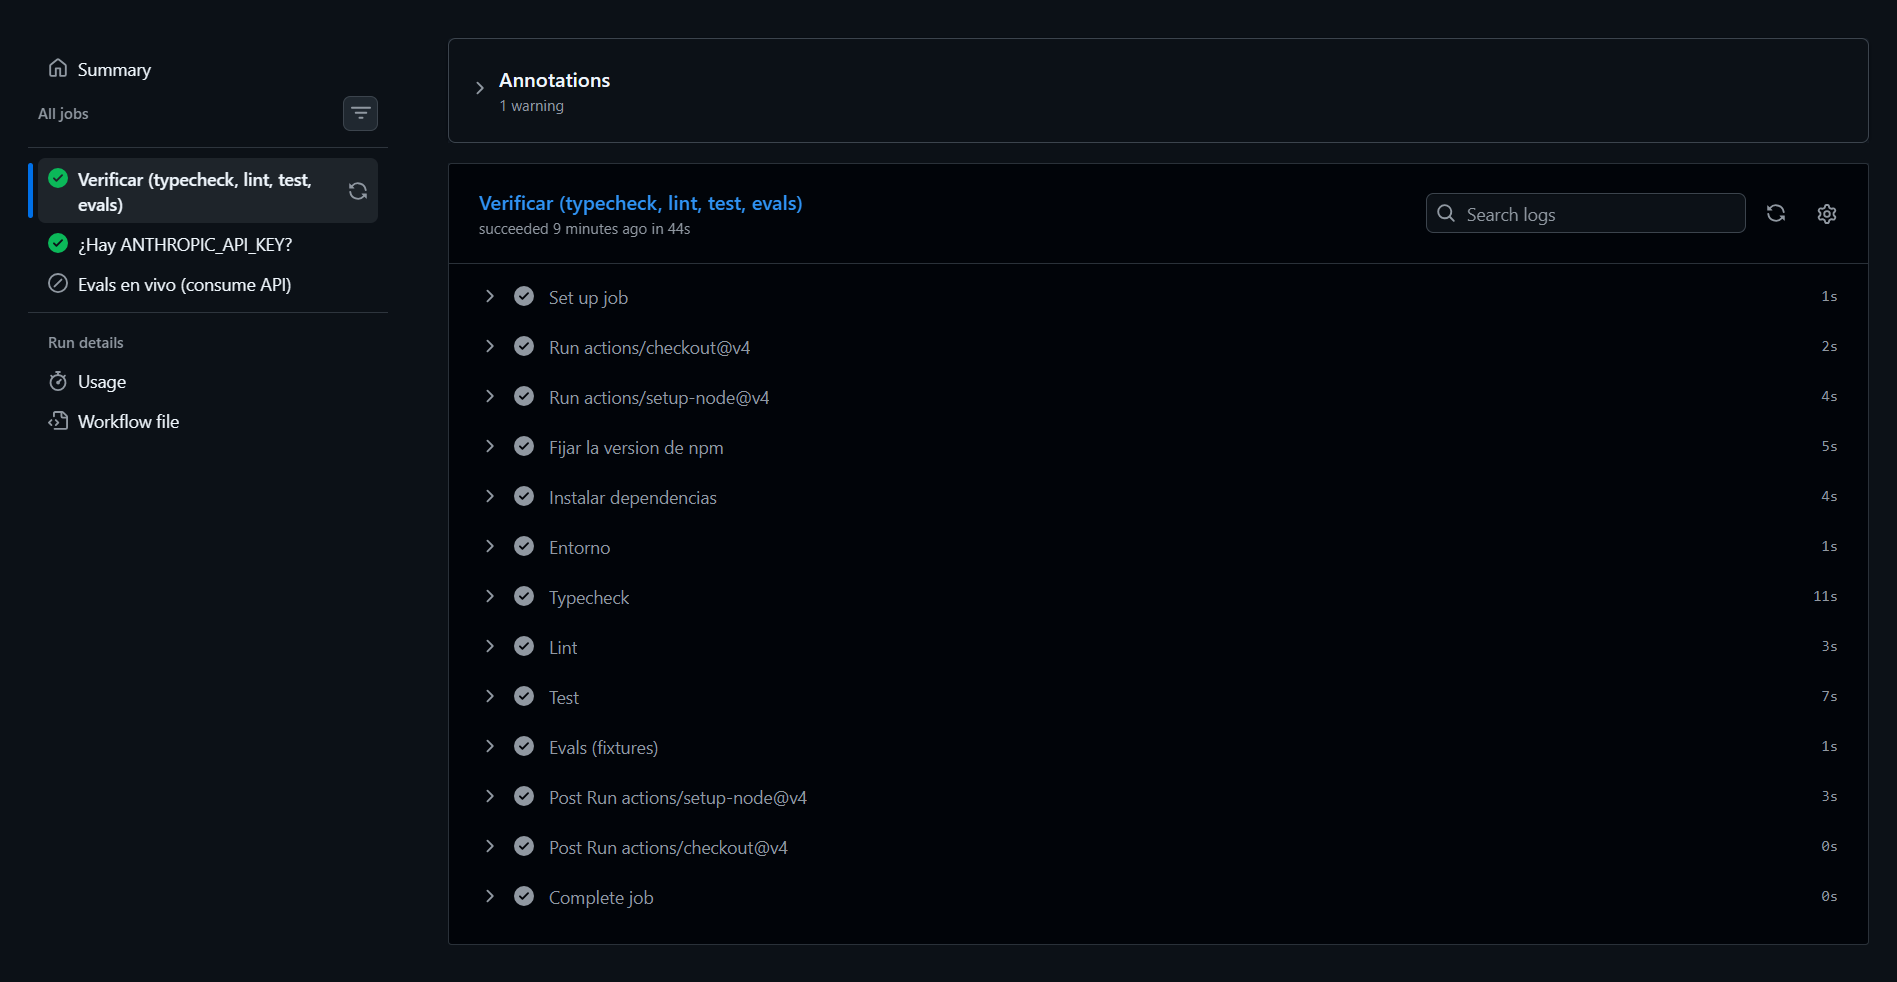
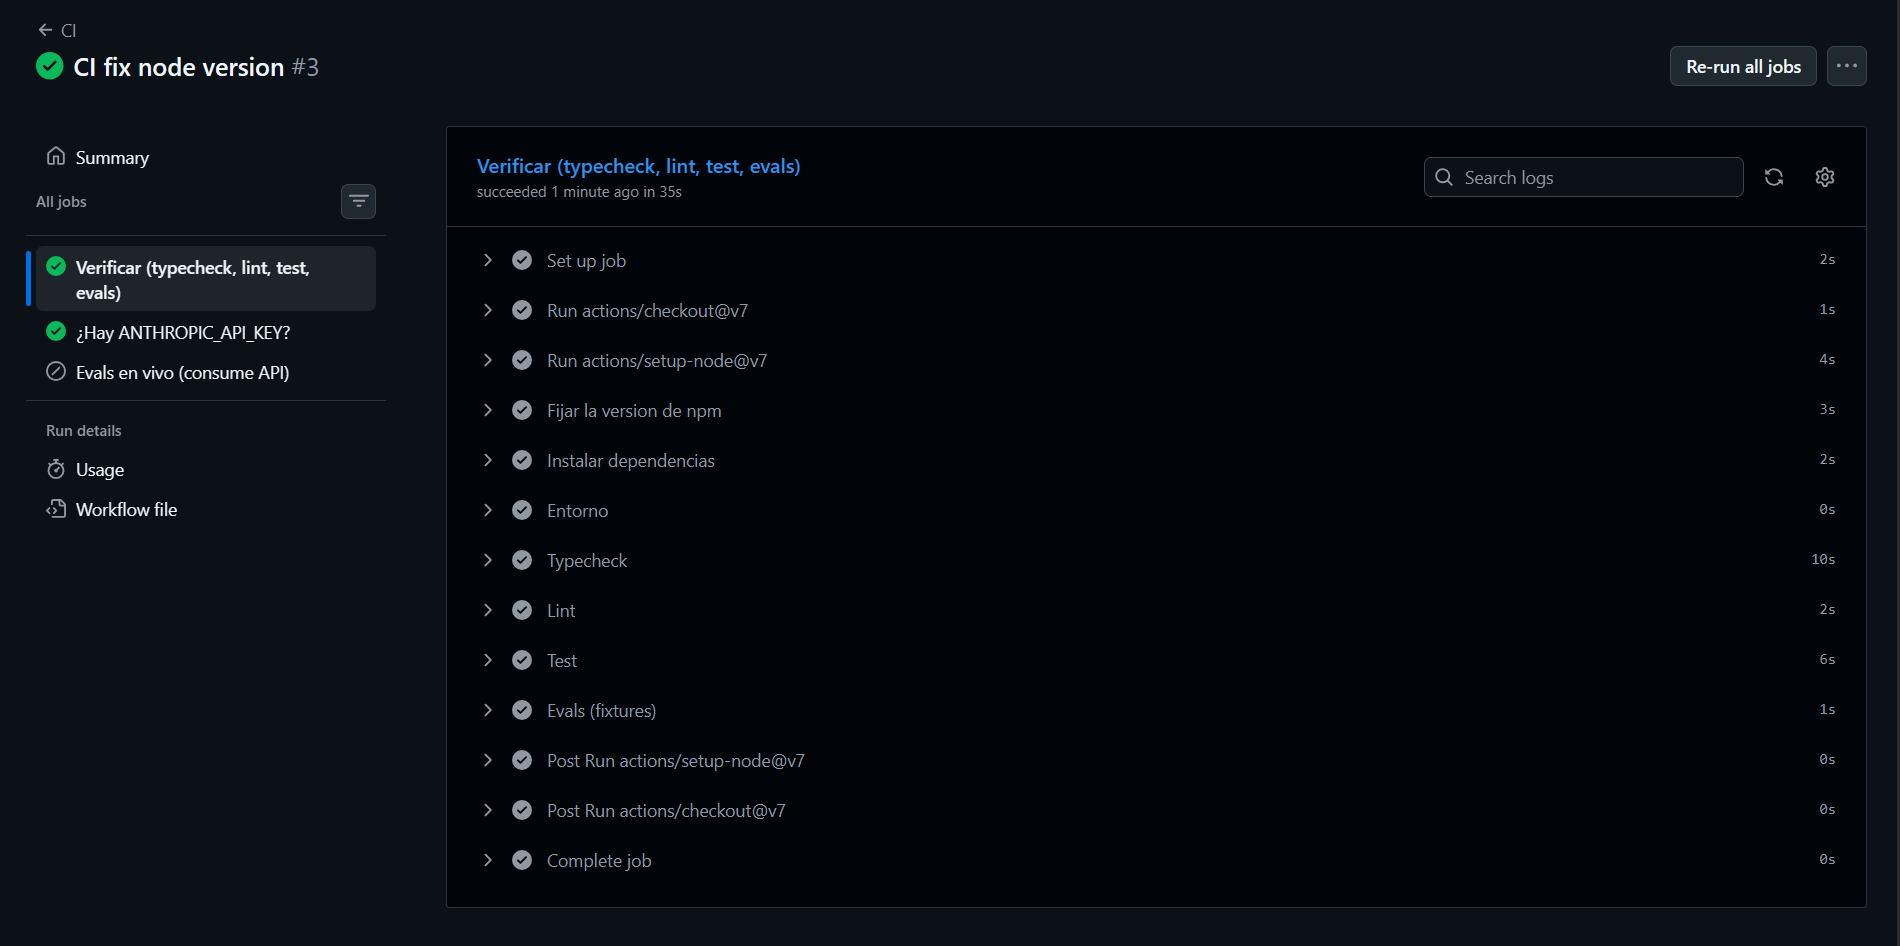
readme

diff --git a/README.md b/README.md
@@ -1,0 +1,353 @@
+# Asistente de producción de pixel art
+
+Convierte una descripción en lenguaje natural en un sprite o tileset real, generado dentro de
+Aseprite a través de un servidor MCP propio. El pixel art es el resultado visible; lo que este
+repositorio demuestra es la ingeniería que hay alrededor del modelo: streaming, salidas
+estructuradas validadas, uso de herramientas, reintentos con fallback entre modelos, caché
+propia, telemetría de coste y latencia, y una suite de evaluación que rompe el build. Cada una de
+esas piezas existe para resolver un problema concreto de llevar un LLM a producción, y abajo se
+explica cuál.
+
+https://github.com/user-attachments/assets/462b58ec-4025-47c0-888f-76507bd3c488
+
+---
+
+## Arquitectura
+
+```mermaid
+flowchart TB
+    subgraph nav ["Navegador"]
+        UI["React 19 + Vite<br/>prompt · streaming · preview"]
+    end
+
+    subgraph srv ["@asistente/server — Express 5"]
+        RT["POST /api/generate<br/>respuesta SSE"]
+        CA{{"¿Está en caché?"}}
+        LLM["Cliente Anthropic<br/>structured output"]
+        RE["Reintentos + fallback<br/>opus-5 → sonnet-5"]
+        ZOD["Validación Zod<br/>SpriteSpec"]
+        TEL[("SQLite<br/>caché + métricas")]
+    end
+
+    subgraph mcp ["@asistente/mcp-aseprite — stdio"]
+        TOOL["Tools MCP"]
+        LUA["Emisor de Lua<br/>una sola transaction"]
+        WS["Servidor WebSocket<br/>127.0.0.1"]
+    end
+
+    ASE["Aseprite 1.3+<br/>extensión connector<br/>(cliente WebSocket)"]
+    OUT["output/<br/>.aseprite · .png · .json"]
+
+    UI -->|prompt| RT
+    RT --> CA
+    CA -->|hit ~50 ms, $0| ZOD
+    CA -->|miss| LLM
+    LLM --> RE
+    RE --> ZOD
+    ZOD -->|spec válido| TOOL
+    ZOD -.->|inválido: reintento con el error| LLM
+    TOOL --> LUA --> WS
+    WS <-->|"id + Lua / resultado"| ASE
+    ASE --> OUT
+    OUT -->|preview| UI
+    RT -.->|coste, tokens, latencia| TEL
+    TEL -->|"GET /api/dashboard"| UI
+```
+
+El modelo nunca toca el disco ni ejecuta nada. Produce un `SpriteSpec` en JSON; el servidor lo
+valida y, sólo si es válido, el MCP lo traduce a Lua. Esa frontera es lo que permite tratar la
+salida del modelo como entrada hostil.
+
+---
+
+## Capacidades
+
+### Streaming por SSE
+
+**El problema:** generar un sprite tarda entre 80 y 170 segundos. Una petición HTTP normal deja
+la interfaz en blanco todo ese tiempo, sin forma de saber si avanza o se colgó.
+
+La respuesta viaja como Server-Sent Events con eventos por etapa, así que la interfaz muestra el
+spec formándose token a token y después el progreso del render.
+
+Dos estados que parecen uno y no lo son: *el cliente colgó* y *la respuesta terminó*. Se escuchan
+por separado, y el cierre del stream ocurre siempre en un `finally` — si se marca cerrado al
+detectar la desconexión, la respuesta se queda colgada para siempre. La desconexión se escucha en
+`res` y no en `req`, porque el `close` de `req` salta en cuanto se termina de leer el cuerpo, que
+en un POST es inmediato.
+
+→ [`packages/server/src/routes/generate.ts`](packages/server/src/routes/generate.ts)
+
+### Salidas estructuradas
+
+**El problema:** pedirle JSON a un modelo y parsearlo con `JSON.parse` falla en producción. Llega
+envuelto en markdown, con un campo de más o con un entero donde se esperaba un enum.
+
+El schema se define una vez con Zod y se deriva a JSON Schema para la API. La validación de
+entrada y el contrato con el modelo no pueden desincronizarse porque son la misma fuente.
+
+Un detalle que no es evidente: Zod v4 emite `minimum`/`maximum` al usar `.int()`, y
+`minLength`/`pattern` con `.min()`/`.regex()`. Esas keywords rompen los structured outputs de la
+API. Por eso los campos que viajan al JSON Schema usan sólo validadores estructurales, y los
+rangos y formatos viven en un `superRefine` que corre del lado del servidor. Lo verifica un test
+dedicado, `assertStructuredOutputCompatible`.
+
+→ [`packages/shared/src/schema/sprite-spec.ts`](packages/shared/src/schema/sprite-spec.ts)
+
+### Uso de herramientas vía MCP
+
+**El problema:** que el modelo "dibuje" significa ejecutar código en una aplicación de escritorio.
+Dejarle generar Lua libre sería ejecución arbitraria de código.
+
+El modelo sólo produce datos. Un servidor MCP por stdio expone herramientas tipadas que traducen
+el `SpriteSpec` a Lua, y todo el lote va en **una sola** `app.transaction`: cientos de llamadas
+sueltas serían cientos de round-trips y otros tantos pasos de deshacer.
+
+Todo nombre de fichero derivado del modelo pasa por `path.basename` con el separador normalizado
+y se verifica confinado al directorio de salida antes de usarse.
+
+→ [`packages/mcp-aseprite/src/tools.ts`](packages/mcp-aseprite/src/tools.ts) ·
+[`lua/emit.ts`](packages/mcp-aseprite/src/lua/emit.ts) ·
+[`output-paths.ts`](packages/mcp-aseprite/src/output-paths.ts)
+
+### El puente hacia Aseprite
+
+**El problema:** la API Lua de Aseprite trae cliente WebSocket, pero no servidor. Y no incluye
+librería JSON.
+
+Node levanta el servidor en `127.0.0.1` y Aseprite se conecta como cliente, así que el lado Node
+arranca primero. El sobre viaja como `"<id>\n<lua>"` y la respuesta se construye a mano con un
+escapador mínimo; quien parsea es Node, que sí tiene `JSON.parse` fiable.
+
+El connector es una **extensión**, no un script: un script lanzado desde `File > Scripts` termina
+en su última línea, sus locales quedan libres para el recolector y el callback deja de dispararse,
+dejando un socket abierto pero sordo.
+
+→ [`packages/mcp-aseprite/src/bridge/ws-server.ts`](packages/mcp-aseprite/src/bridge/ws-server.ts) ·
+[`aseprite/README.md`](aseprite/README.md)
+
+### Reintentos y fallback entre modelos
+
+**El problema:** la API devuelve 429 y 529 bajo carga, y un modelo puede declinar una petición.
+Sin una política explícita, eso es un error en la cara del usuario.
+
+Reintentos con backoff exponencial sobre los códigos recuperables, y fallback de `claude-opus-5`
+a `claude-sonnet-5` cuando el primario no responde. El fallback server-side no lo admiten todos
+los modelos —sólo los que pueden declinar por clasificador—, así que se decide por modelo en
+`supportsServerSideFallback()`.
+
+`SIMULATE_5XX=1` fuerza el fallo del primario para poder demostrarlo sin esperar a una caída real.
+
+→ [`packages/server/src/llm/retry.ts`](packages/server/src/llm/retry.ts) ·
+[`fallback.ts`](packages/server/src/llm/fallback.ts)
+
+![Fallback en la interfaz](docs/media/fallback.png)
+
+### Caché de respuestas
+
+**El problema:** el prompt caching de Anthropic abarata el prefijo de una petición que igualmente
+se ejecuta. No evita la petición.
+
+Esta caché es complementaria, no un sustituto: guarda el `SpriteSpec` completo en SQLite y evita
+la llamada entera. Un acierto convierte una operación de ~102 segundos y ~$0,21 en una de ~50 ms
+y coste cero.
+
+La clave es `sha256` del prompt normalizado más la versión del schema, el modelo y el hash del
+system prompt: cambiar el schema o el prompt invalida las entradas viejas sin purgarlas a mano.
+Los campos se unen con un separador `\u0000`, que no puede aparecer dentro de ninguno — sin él,
+`["ab","c"]` y `["a","bc"]` colisionarían.
+
+→ [`packages/server/src/cache/response-cache.ts`](packages/server/src/cache/response-cache.ts)
+
+![Acierto de caché](docs/media/cache-hit.png)
+
+### Telemetría de coste y latencia
+
+**El problema:** sin medirlo, el coste de un sistema con LLM se descubre en la factura.
+
+Cada petición registra tokens, coste estimado a partir de una tabla de precios versionada,
+latencia por etapa, intentos, si hubo fallback y si fue acierto de caché. El panel agrega por
+ventana y compara con la anterior.
+
+Dos decisiones que cambian lo que se lee: los percentiles de LLM **excluyen** los aciertos de
+caché y los de render excluyen los ceros —meter esos ceros hunde el p50 y finge una mejora que no
+existe—; y las alertas basadas en proporciones exigen un mínimo de evidencia, porque con siete
+peticiones en la ventana un solo fallback da 14 % y cruza cualquier umbral razonable sin describir
+nada real.
+
+→ [`packages/server/src/telemetry/dashboard.ts`](packages/server/src/telemetry/dashboard.ts) ·
+[`shared/src/pricing.ts`](packages/shared/src/pricing.ts)
+
+![Panel de coste, tokens y latencia](docs/media/dashboard.png)
+
+### Evaluación automatizada
+
+**El problema:** "el sprite se ve bien" no es una medida. Sin una, cualquier cambio en el prompt
+es una apuesta.
+
+Casos fijos y graders **deterministas** —ninguno usa LLM-as-judge: un grader que llama al modelo
+mete ruido y coste en la medida que sirve para juzgar al modelo—. `thresholds.json` decide el
+código de salida; `baseline.json` sólo marca regresiones sin romper el build.
+
+Los graders no abren Aseprite: operan sobre el `SpriteSpec` y sobre el Lua emitido, para poder
+correr en un runner sin GUI.
+
+→ [`evals/README.md`](evals/README.md) · [`evals/thresholds.json`](evals/thresholds.json)
+
+### Integración continua
+
+El job de validación corre en cada PR **sin clave de API y sin coste**: las evals usan respuestas
+grabadas. El job de evals en vivo va aparte y no corre en pull requests, porque un PR de un fork
+no puede leer secretos y toda contribución externa nacería en rojo.
+
+→ [`.github/workflows/ci.yml`](.github/workflows/ci.yml)
+
+![CI en verde](docs/media/ci-verde.png)
+
+---
+
+## Números medidos
+
+De las peticiones **reales** registradas en la telemetría. Muestra pequeña (**n = 8**, 7
+entregadas y 1 error), así que valen como orden de magnitud, no como estadística.
+
+| Métrica | Valor |
+|---|---|
+| Coste medio por sprite generado | **$0,2108** (n = 4 pagados) |
+| Coste medio por sprite entregado | $0,1724 (n = 7, incluye aciertos de caché) |
+| Latencia LLM p50 / p95 | **102,1 s** / 165,4 s |
+| Latencia con acierto de caché | 31–56 ms |
+| Aceleración por caché | **~1.960×** |
+| Render en Aseprite (p50) | 42 ms |
+| Tasa de acierto de caché | 37,5 % (3 de 8) |
+| Gasto total registrado | $1,2067 |
+
+El LLM domina la latencia por tres órdenes de magnitud sobre el render: optimizar el pintado no
+serviría de nada, y por eso el esfuerzo está en la caché.
+
+> **Sobre los fixtures.** Los fixtures que hay en el repo son `synthetic-seed`: specs válidos y
+> representativos escritos a mano para que la suite arranque en un clon sin clave de API. **No**
+> son respuestas de llamadas reales, y sus cifras (≈$0,03 por sprite, p95 ≈19 s) no reflejan el
+> coste ni la latencia de producción. Los presupuestos de `thresholds.json` están calibrados
+> contra ellos; una corrida en vivo con los valores reales de arriba incumpliría ambos. Regraba
+> los fixtures con `npm run evals:record` antes de sacar conclusiones sobre calidad o coste.
+
+---
+
+## Decisiones y compromisos
+
+| Decisión | Alternativa | Por qué |
+|---|---|---|
+| **SQLite** para caché y métricas | MongoDB, Postgres | El sistema es local-first y monousuario. Un fichero sin servicio que administrar, con consultas de agregación suficientes. Una base gestionada añadiría operación sin resolver ningún problema real aquí. |
+| **Local-first**, sin despliegue | Vercel, contenedores | El producto necesita una instancia de Aseprite de escritorio con una extensión instalada. No hay forma de servir eso desde una función serverless, así que desplegarlo sería una demo sin la mitad interesante. |
+| **Caché propia** además del prompt caching | Sólo prompt caching de Anthropic | Resuelven cosas distintas: el de Anthropic abarata el prefijo de una petición que igualmente se ejecuta; el propio evita la llamada entera. Medido: ~102 s → ~50 ms. |
+| **Graders deterministas**, sin LLM-as-judge | Juez con modelo | Un juez LLM mete ruido y coste en la medida que sirve para juzgar al modelo, y su veredicto no es reproducible entre corridas. |
+| **MCP por stdio** | Llamadas HTTP a un servicio propio | El protocolo ya define el contrato de herramientas y el ciclo de vida del proceso. Y stdio evita exponer un puerto para algo que sólo consume un proceso local. |
+| **Zod → JSON Schema** desde una fuente | Schema JSON escrito a mano | Con dos fuentes, la validación de entrada y el contrato con el modelo se desincronizan en silencio. |
+| **Versión de npm fijada** en CI | Sólo fijar Node | npm 10 y 11 no validan igual un `package-lock.json`. Fijar sólo Node deja que el runner use el npm que traiga ese día, y el lockfile puede estar en verde en local y romper `npm ci` en CI. |
+
+---
+
+## Puesta en marcha
+
+Requiere **Node 22+** y **Aseprite 1.3 o superior** (las versiones anteriores no exponen
+`WebSocket` en su API Lua).
+
+1. **Instalar dependencias** desde la raíz:
+
+   ```bash
+   npm install
+   ```
+
+2. **Configurar la credencial.** Copia `.env.example` a `.env` y rellena `ANTHROPIC_API_KEY`.
+
+   Una suscripción de Claude.ai (Pro/Max) **no** da acceso a la API: son productos distintos con
+   facturación distinta. La clave se crea en
+   [console.anthropic.com](https://console.anthropic.com/settings/keys).
+
+3. **Instalar la extensión de Aseprite:**
+
+   ```powershell
+   $dest = "$env:APPDATA\Aseprite\extensions\asistente-connector"
+   New-Item -ItemType Directory -Force -Path $dest | Out-Null
+   Copy-Item -Force aseprite\extension\asistente-connector\* $dest
+   ```
+
+   Reinicia Aseprite. La primera vez mostrará un diálogo de seguridad porque la extensión abre una
+   conexión de red: acéptalo, o el connector no podrá conectarse. Detalles y alternativa
+   empaquetada en [`aseprite/README.md`](aseprite/README.md).
+
+4. **Arrancar el backend.** Levanta el puente WebSocket, así que va antes que Aseprite:
+
+   ```bash
+   npm run dev -w @asistente/server
+   ```
+
+5. **Conectar Aseprite:** `File > Asistente: Connect`. Hay que repetirlo cada vez que se reinicie
+   el lado Node, porque el puente es nuevo; no hace falta reiniciar Aseprite.
+
+6. **Arrancar la interfaz:**
+
+   ```bash
+   npm run dev -w @asistente/web
+   ```
+
+   Generar en `http://localhost:5173/#/` · panel de métricas en `http://localhost:5173/#/panel`.
+
+Para comprobar la cadena completa (MCP → Lua → Aseprite) **sin gastar API**:
+
+```bash
+npm run render:example -w @asistente/server   # genera un icono de 8×8 en output/
+```
+
+Y para ver el panel con datos sin llamar al modelo:
+
+```bash
+npm run seed:metrics -w @asistente/server
+```
+
+![Sprite renderizado en Aseprite](docs/media/aseprite-render.png)
+
+Los spritesheets se exportan con su JSON de metadatos, listos para importar como Sprite Sheet
+múltiple:
+
+![Importación en Unity](docs/media/unity-import.png)
+
+---
+
+## Verificación
+
+```bash
+npm run typecheck      # tsc --noEmit en los 5 workspaces
+npm run lint           # eslint, sin warnings
+npm run test           # vitest en cada workspace
+npm run build          # build de cada paquete
+npm run ci:local       # réplica exacta del job de PR
+npm run evals:fixtures # suite offline: sin red, sin clave, sin coste
+npm run evals:record   # suite en vivo, regraba fixtures — consume API
+```
+
+---
+
+## Estructura
+
+| Paquete | Rol |
+|---|---|
+| [`packages/shared`](packages/shared) | Schemas Zod (`SpriteSpec`), tipos, tabla de precios, versionado del schema. No importa de ningún otro paquete. |
+| [`packages/server`](packages/server) | Express 5 + SSE. Cliente Anthropic, caché, cliente MCP, telemetría y rutas HTTP. |
+| [`packages/web`](packages/web) | React 19 + Vite + CSS Modules. Prompt, streaming, preview y panel. |
+| [`packages/mcp-aseprite`](packages/mcp-aseprite) | Servidor MCP por stdio. Traduce el spec a Lua y lo ejecuta en Aseprite por WebSocket. |
+| [`evals`](evals) | Casos fijos, graders deterministas, umbrales y runner. |
+| [`aseprite/extension`](aseprite/extension/asistente-connector) | La extensión que se instala en Aseprite. |
+
+TypeScript estricto en todo el monorepo: `strict`, `noUncheckedIndexedAccess` y
+`exactOptionalPropertyTypes`.
+
+### Endpoints
+
+| Ruta | Qué hace |
+|---|---|
+| `POST /api/generate` | Genera un sprite. Responde por SSE con eventos de etapa. |
+| `GET /api/dashboard` | Agregados, series y alertas de una ventana temporal. |
+| `GET /api/metrics` | Métricas crudas. |
+| `GET /api/assets/:file` | Sirve los PNG y JSON generados. Sólo esas extensiones, confinado al directorio de salida. |
